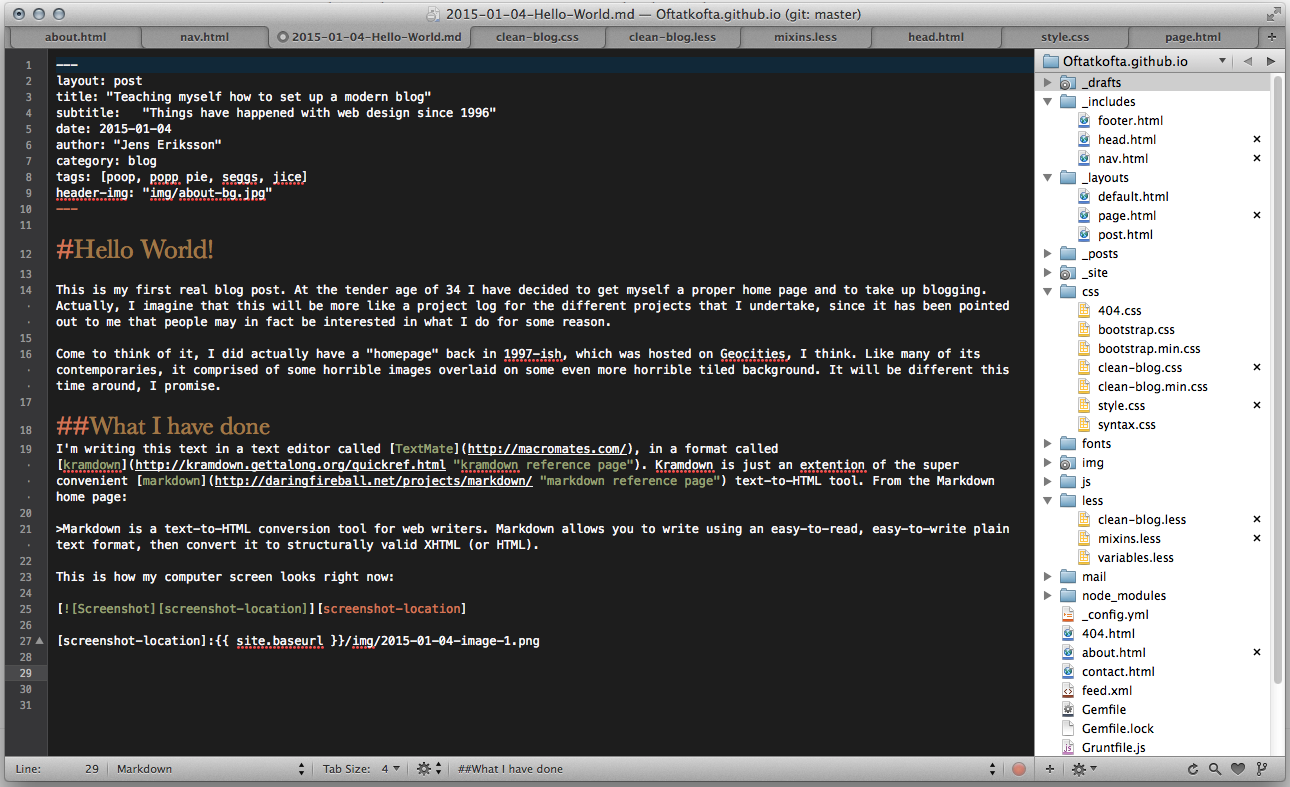
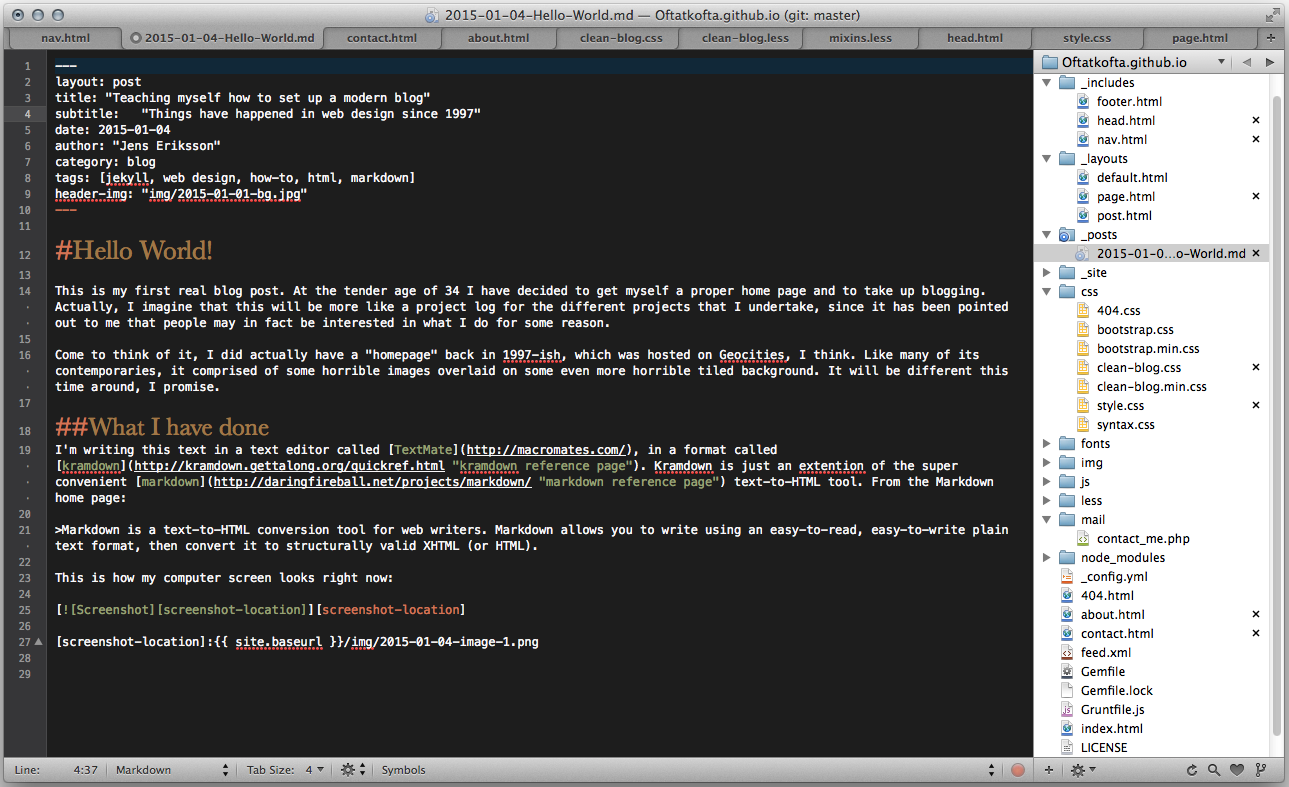
Fixed first post

Changed region(s): [[0.0, 0.0, 1.0, 0.9149], [0.0, 0.3659, 1.0, 1.0]]

diff --git a/_site/index.html b/_site/index.html
@@ -121,7 +121,7 @@
         </h2>
         
         <h3 class="post-subtitle">
-            Things have happened with web design since 1996
+            Things have happened in web design since 1997
         </h3>
         
     </a>

diff --git a/_posts/2015-01-04-Hello-World.md b/_posts/2015-01-04-Hello-World.md
@@ -1,11 +1,11 @@
 ---
 layout: post
 title: "Teaching myself how to set up a modern blog"
-subtitle:   "Things have happened with web design since 1996"
+subtitle:   "Things have happened in web design since 1997"
 date: 2015-01-04
 author: "Jens Eriksson"
 category: blog
-tags: [poop, popp pie, seggs, jice]
+tags: [jekyll, web design, how-to, html, markdown]
 header-img: "img/2015-01-01-bg.jpg"
 ---
 
